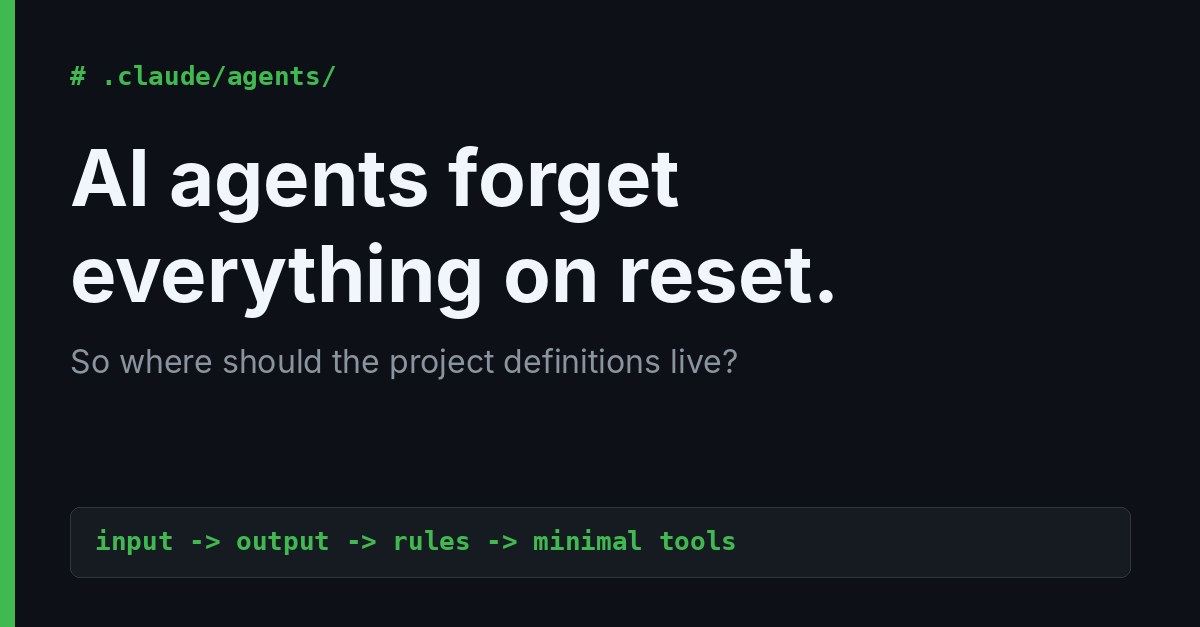
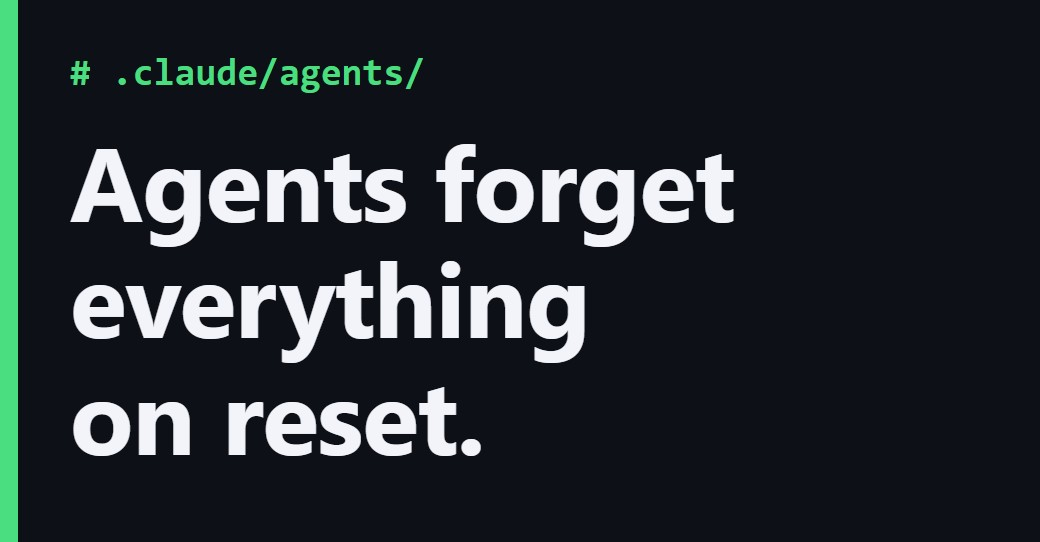
Make the Reads card covers legible and fix the blueprint headline
Replace the downscaled LinkedIn covers with simplified ones: one tag
and one large headline, readable at card width. The blueprint cover
now says Test #1,000, matching the post. Version the cover and
home.js URLs so browsers fetch the new files.

diff --git a/assets/js/home.js b/assets/js/home.js
@@ -137,31 +137,31 @@ const SKILLS = [
 /* LinkedIn articles, newest first */
 const READS = [
   {title:"I drew the whole Playwright framework as one map", date:"2026-11-09", mins:1,
-   img:"assets/img/post-pw-framework-map.jpg",
+   img:"assets/img/post-pw-framework-map.jpg?v=2026111001",
    excerpt:"A Playwright + TypeScript framework in the order you build it: architecture, execution model, auth and data, AI agents, the four suites, CI/CD with sharding and reports. Real config, checked against Playwright 1.64.1.",
    url:"https://www.linkedin.com/feed/update/urn:li:activity:7525676057895845888/"},
   {title:"Software testing methodology as one visual map", date:"2026-11-09", mins:1,
-   img:"assets/img/post-qa-methodology-map.jpg",
+   img:"assets/img/post-qa-methodology-map.jpg?v=2026111001",
    excerpt:"A test strategy nobody opens is no strategy. Foundations, risk, levels and types, the test process, test design, AI across the lifecycle and metrics on one map, aligned to ISTQB CTFL v4.0.1 and ISO 29119.",
    url:"https://www.linkedin.com/feed/update/urn:li:activity:7525673751695212544/"},
   {title:"1,881 test automation interview questions, answered. Free PDF.", date:"2026-10-28", mins:2,
-   img:"assets/img/post-sdet-handbook.jpg",
+   img:"assets/img/post-sdet-handbook.jpg?v=2026111001",
    excerpt:"The handbook I built while preparing for my own interviews: 42 chapters on a Playwright + TypeScript stack, answers checked against official docs, and how often each topic is really asked. No sign-up, no paywall.",
    url:"https://www.linkedin.com/feed/update/urn:li:activity:7521232255281913856/"},
   {title:"Your first Playwright test takes minutes. Test 1,000 takes architecture.", date:"2026-10-22", mins:2,
-   img:"assets/img/post-pw-framework-blueprint.jpg",
+   img:"assets/img/post-pw-framework-blueprint.jpg?v=2026111001",
    excerpt:"The framework blueprint I use, layer by layer: foundation, pages, components, fixtures, API layer, test data, diagnostics, suites and CI/CD, and the order I build them in so the test itself stays boring.",
    url:"https://www.linkedin.com/feed/update/urn:li:activity:7518959968553955328/"},
   {title:"When Claude ignores your instructions, it's usually the setup", date:"2026-10-16", mins:2,
-   img:"assets/img/post-claude-setup.jpg",
+   img:"assets/img/post-claude-setup.jpg?v=2026111001",
    excerpt:"The from-zero Claude Code setup I use for repeatable results, in five layers: context, focused capability, guardrails in hooks and permissions, MCP for real tools and data, and the discipline to measure it.",
    url:"https://www.linkedin.com/feed/update/urn:li:activity:7516851976714985472/"},
   {title:"Your AI agents forget the whole project on reset", date:"2026-10-16", mins:3,
-   img:"assets/img/post-agents-reset.jpg",
+   img:"assets/img/post-agents-reset.jpg?v=2026111001",
    excerpt:"Eight decisions that make Claude Code test agents behave: project knowledge in version-controlled files, hooks for rules that can't bend, one job per agent, and file handoffs between planner, generator and healer.",
    url:"https://www.linkedin.com/feed/update/urn:li:activity:7516847262883577857/"},
   {title:"I packaged my QA architecture into one free command", date:"2026-10-01", mins:2,
-   img:"assets/img/article-agentic-project.jpg?v=2026100101",
+   img:"assets/img/post-free-command.jpg?v=2026111001",
    excerpt:"create-agentic-playwright-project scaffolds a full Playwright + TypeScript QA suite with Claude Code agents and skills already wired into the workflow. Free, one command.",
    url:"https://www.linkedin.com/feed/update/urn:li:activity:7511193169934331904/"}
 ];

diff --git a/tests/smoke.spec.ts b/tests/smoke.spec.ts
@@ -171,7 +171,7 @@ test.describe('home page', () => {
     await expect(cards).toHaveCount(7);
     // newest first
     await expect(cards.first()).toHaveAttribute('href', /linkedin\.com\//);
-    await expect(cards.first().locator('img')).toHaveAttribute('src', 'assets/img/post-pw-framework-map.jpg');
+    await expect(cards.first().locator('img')).toHaveAttribute('src', 'assets/img/post-pw-framework-map.jpg?v=2026111001');
     // every card points at LinkedIn
     for (const href of await cards.evaluateAll((els) => els.map((e) => e.getAttribute('href')))) {
       expect(href).toMatch(/linkedin\.com\//);

diff --git a/index.html b/index.html
@@ -278,6 +278,6 @@
   </div>
 </footer>
 
-<script src="assets/js/home.js?v=2026092801" defer></script>
+<script src="assets/js/home.js?v=2026111001" defer></script>
 </body>
 </html>
